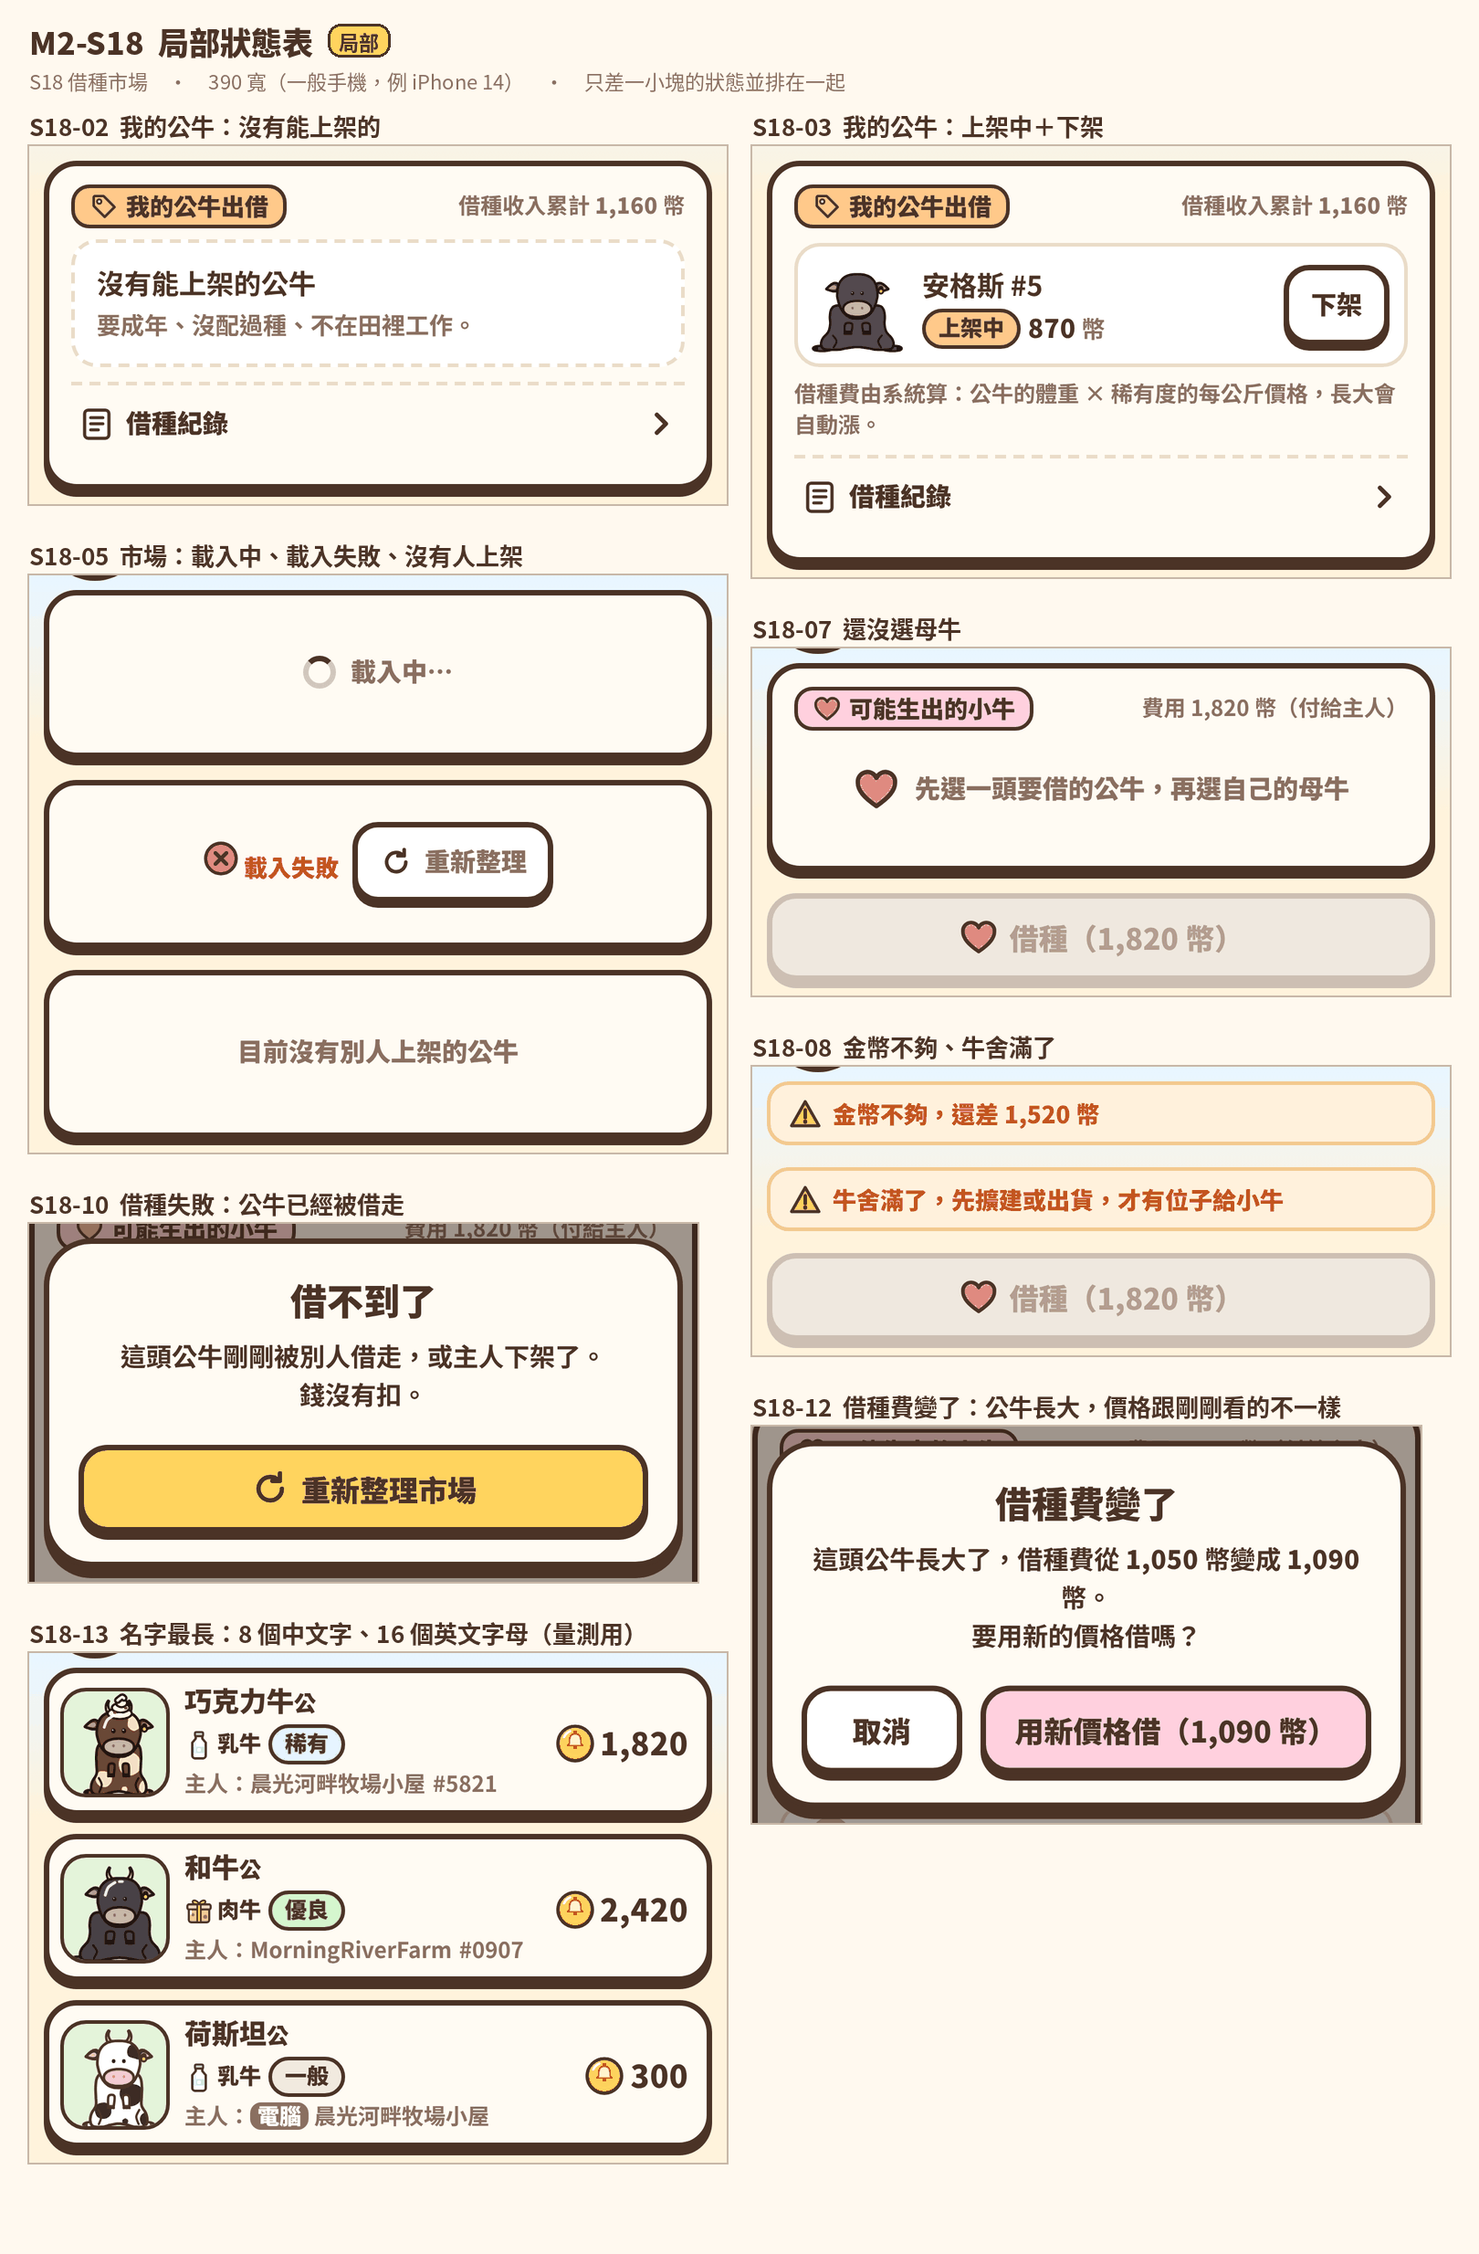
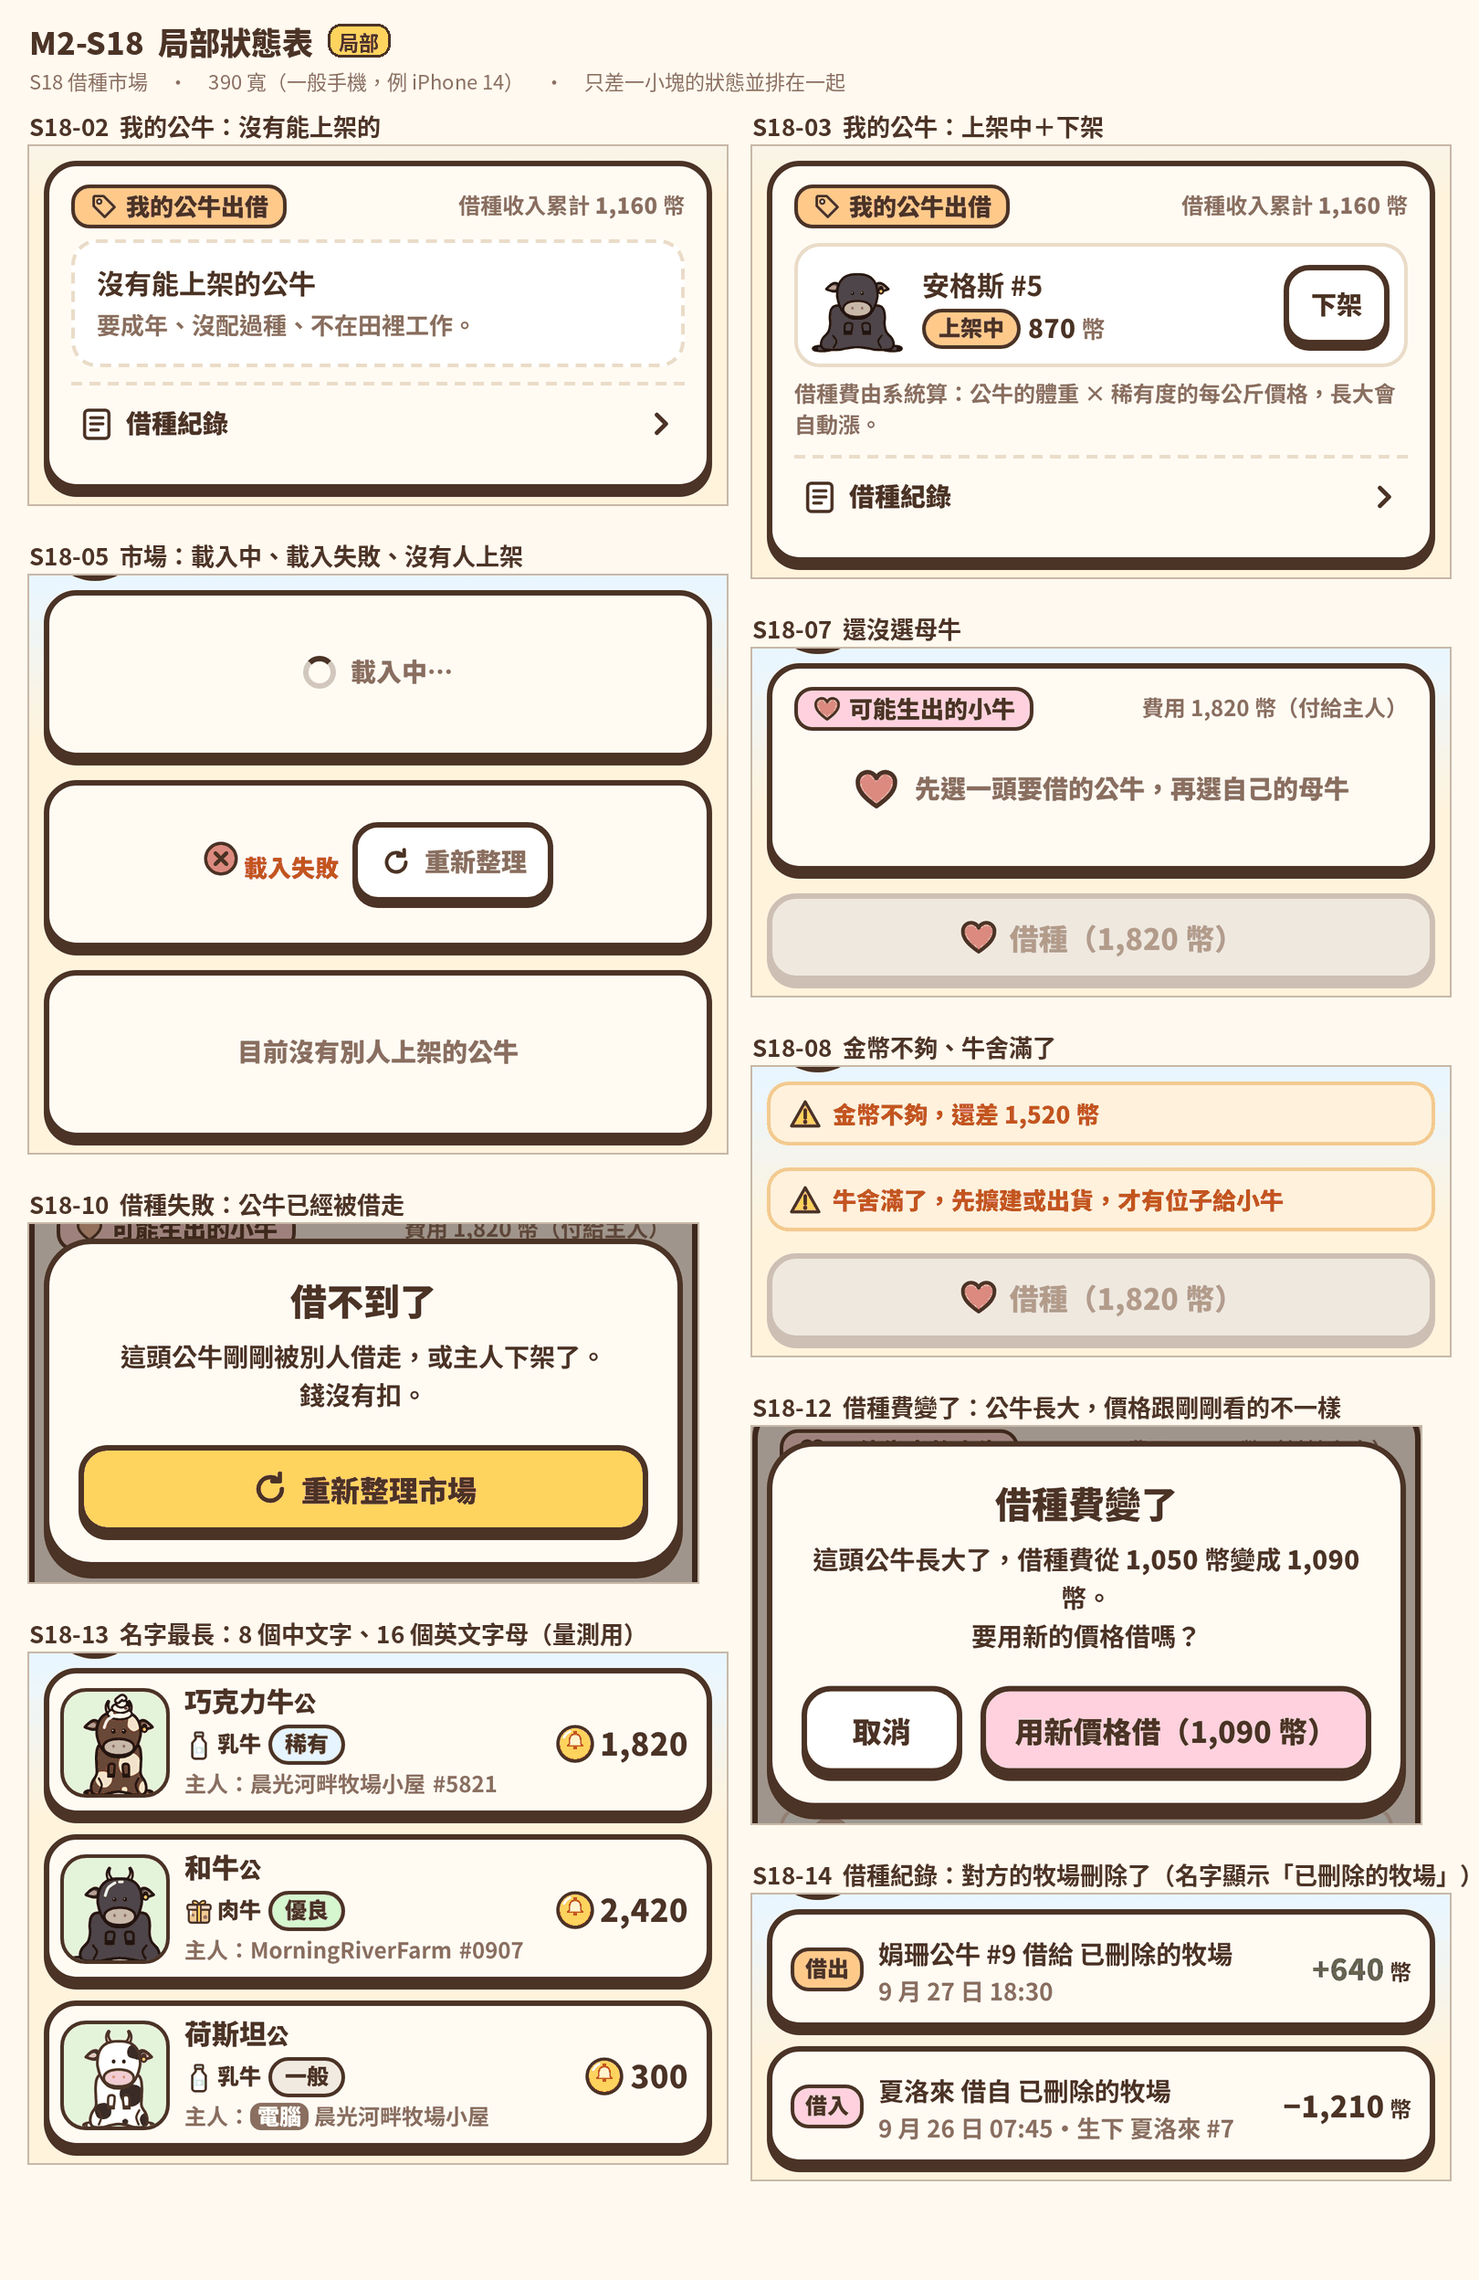
借種紀錄加「已刪除的牧場」（S18-14）；scope 改成取好名字才建立牧場（ceo 2026-10-02）
- zh-Hant.json 加 s18.deletedRanch「已刪除的牧場」（共 649 個 key）：對方的牧場刪除了，
  借種紀錄照樣保留，對方的名字顯示這個。英文、泰文 ceo 翻。
- 新增局部狀態 S18-14：借出、借入各一列（量長度用，版面不變）。借種紀錄的一列抽成 logRow()，
  S18-11 的輸出不變（HTML 把 SVG 編號正規化後比對，既有 712 個畫面都一樣）。
  重出 S18 局部狀態表（430、390）和 S18 總覽；局部狀態 78 → 79，全部 167 個狀態。
- scope.md：建立牧場的順序改成 S14-01 開新牧場 → S02 取名 → 按「就叫這個」→ S01-03 建立牧場中
  → S02-02 歡迎卡（伺服器取好名字才建立）。S01-03、S02-01、S02-02、S14-01 的觸發條件跟著改，畫面不變。
  S02 的字寬說明改成 D23 的新算法（泰文上下標記號算 0）。

Changed region(s): [[0.0, 0.0, 0.9877, 0.9672]]

diff --git a/design/m2/src/js/screens/s08.js b/design/m2/src/js/screens/s08.js
@@ -142,14 +142,24 @@ full18('S18-09', '借種成功：小牛倒數', (ctx) => studPage(ctx, { sel: 2,
 part18('S18-10', '借種失敗：公牛已經被借走', '.dialog', (ctx) => studPage(ctx, { sel: 2, dam: 0, outcome: 'ok', scrollTo: '.outcome-card', overlays: dialog({ title: t('s18.goneTitle'), body: `<p style="text-align:center">${tb('s18.goneBody')}</p>`, buttons: btn(t('s18.reloadMarket'), { kind: 'primary', ic: 'refresh' }) }) }));
 part18('S18-12', '借種費變了：公牛長大，價格跟剛剛看的不一樣', '.dialog', (ctx) => studPage(ctx, { sel: 3, dam: 0, outcome: 'ok', scrollTo: '.outcome-card', overlays: dialog({ title: t('s18.feeChangedTitle'), body: `<p style="text-align:center">${tb('s18.feeChangedBody', { old: `<b class="num">${fmt(1050)}</b>`, now: `<b class="num">${fmt(1090)}</b>` })}</p>`, buttons: `${btn(t('cancel'))}${btn(t('s18.borrowNew', { price: fmt(1090) }), { kind: 'pink' })}` }) }));
 part18('S18-13', '名字最長：8 個中文字、16 個英文字母（量測用）', '.list', (ctx) => frame(ctx.dev, { tab: 'breed', content: `<div class="list">${[{ ...STUD[2], owner: LONG_NAMES.cjk, tag: '#5821' }, { ...STUD[4], owner: LONG_NAMES.latin, tag: '#0907' }, { ...STUD[0], owner: LONG_NAMES.cjk }].map((l) => studRow(l)).join('')}</div>` }));
+// 對方的牧場刪除了：借出、借入各一列（量長度用；借種費照 D26：娟珊公牛 233 公斤 × 2.75、夏洛來 440 公斤 × 2.75）
+part18('S18-14', '借種紀錄：對方的牧場刪除了（名字顯示「已刪除的牧場」）', '.list', (ctx) => frame(ctx.dev, { tab: 'breed', content: `<div class="list">${[
+  { dir: 'out', when: { m: 9, d: 27, time: '18:30' }, gone: true, cow: { breed: 'jersey', id: 9, bull: true }, price: 640 },
+  { dir: 'in', when: { m: 9, d: 26, time: '07:45' }, gone: true, cow: { breed: 'charolais' }, price: 1210, calf: { breed: 'charolais', id: 7 } },
+].map(logRow).join('')}</div>` }));
 full18('S18-11', '借種紀錄', (ctx) => frame(ctx.dev, { tab: 'breed', content: `<div class="stack">
   <div class="page-head"><button class="icon-btn" aria-label="${t('back')}">${icon('back', 22)}</button><div class="grow"><h1>${t('s18.logTitle')}</h1><div class="sub">${t('s18.logIncome', { v: fmt(STUD_INCOME) })}</div></div></div>
   <div class="filter"><button class="on">${t('g.all')}</button><button>${t('s18.out')}</button><button>${t('s18.in')}</button></div>
-  <div class="list">${STUD_LOG.map((r) => `<article class="card log-row"><span class="log-dir ${r.dir}">${t(r.dir === 'out' ? 's18.out' : 's18.in')}</span>
-    <div class="grow"><b>${t(r.dir === 'out' ? 's18.lentTo' : 's18.borrowedFrom', { cow: logCow(r.cow), ranch: r.bot ? `${t('botPrefix')} ${r.who}` : r.who })}</b><div class="hint">${dateText(r.when)}${r.calf ? t('g.sep') + t('s18.calfBorn', { cow: logCow(r.calf) }) : ''}</div></div>
-    <span class="log-amt ${r.dir}">${t('costCoins', { v: `<b class="num">${r.dir === 'out' ? '+' : '−'}${fmt(r.price)}</b>` })}</span></article>`).join('')}</div>
+  <div class="list">${STUD_LOG.map(logRow).join('')}</div>
   <p class="hint" style="text-align:center">${t('s18.logKeep', { n: 30 })}</p></div>` }));
 
+// 借種紀錄的一列。gone：對方的牧場刪除了，紀錄照樣保留，對方的名字顯示「已刪除的牧場」（ceo 2026-10-02）
+function logRow(r) {
+  const ranch = r.gone ? t('s18.deletedRanch') : r.bot ? `${t('botPrefix')} ${r.who}` : r.who;
+  return `<article class="card log-row"><span class="log-dir ${r.dir}">${t(r.dir === 'out' ? 's18.out' : 's18.in')}</span>
+    <div class="grow"><b>${t(r.dir === 'out' ? 's18.lentTo' : 's18.borrowedFrom', { cow: logCow(r.cow), ranch })}</b><div class="hint">${dateText(r.when)}${r.calf ? t('g.sep') + t('s18.calfBorn', { cow: logCow(r.calf) }) : ''}</div></div>
+    <span class="log-amt ${r.dir}">${t('costCoins', { v: `<b class="num">${r.dir === 'out' ? '+' : '−'}${fmt(r.price)}</b>` })}</span></article>`;
+}
 // 借種紀錄裡的牛：品種（公牛加「公牛」）＋編號（借入的公牛沒有編號）
 function logCow(c) {
   const name = c.bull ? t('s18.bullName', { breed: breedName(c.breed) }) : breedName(c.breed);

diff --git a/design/m2/scope.md b/design/m2/scope.md
@@ -75,22 +75,23 @@
 |---|---|---|---|---|---|
 | S01-01 | 啟動畫面：遊戲名（暫名「牛市牧場」，做成可替換的單一文字）、牛、版本號 | 整頁 | app 打開 | 新 | 無 |
 | S01-02 | 載入中：「正在載入牧場…」 | 整頁 | `state == null`（`home_shell.dart:76-77,98`） | `S.loadingFarm`、`S.connecting` | 有（沒有截圖） |
-| S01-03 | 第一次打開：建立牧場中 → 接著進 S02 | 整頁 | 手機沒有 token → `POST /v1/session`（`game_model.dart:134-145`） | 新 | 部分 |
+| S01-03 | 建立牧場中（取好名字之後）→ 接著顯示歡迎卡（S02-02） | 整頁 | 在 S02 按「就叫這個」→ 伺服器建立牧場（ceo 2026-10-02：取好名字才建立；M1 是一打開就 `POST /v1/session`，`game_model.dart:134-145`） | 新 | 部分 |
 | S01-04 | 載入失敗＋「重試」（每 5 秒也會自動重試） | 整頁 | `_boot` 失敗（`game_model.dart:124-127`） | `S.startFailed`、`S.retry` | 有（沒有截圖） |
 
 ### S02 新手：自己取牧場名（M1 沒做；D23）
 
 | 頁面 ID | 狀態 | 類型 | 觸發條件 | 文案來源 | M1 |
 |---|---|---|---|---|---|
-| S02-01 | 還沒輸入：輸入框、字數「0 / 16」、「幫我想一個」、「就叫這個」（停用） | 整頁 | 第一次打開、按「開新牧場」之後 | 新 | 無 |
-| S02-02 | 取好名字：歡迎卡「歡迎來到 小花的快樂牧場 #1234」與開局的牛、100 幣、奶桶裡已經有 20 瓶 | 整頁 | 按「就叫這個」 | 新 | 無 |
+| S02-01 | 還沒輸入：輸入框、字數「0 / 16」、「幫我想一個」、「就叫這個」（停用） | 整頁 | 在 S14-01 按「開新牧場」之後（牧場還沒建立） | 新 | 無 |
+| S02-02 | 取好名字：歡迎卡「歡迎來到 小花的快樂牧場 #1234」與開局的牛、100 幣、奶桶裡已經有 20 瓶 | 整頁 | 按「就叫這個」→ 建立牧場中（S01-03）→ 建好之後 | 新 | 無 |
 | S02-03 | 打字中：系統鍵盤開著（畫成灰色方塊，不畫鍵盤本身）；輸入框、字數、按鈕都在鍵盤上面 | 整頁 | 點輸入框 | 新 | 無 |
 | S02-04 | 按了「幫我想一個」：從詞庫填一個（例「晨光河畔牧場」），可以再改 | 整頁 | 按「幫我想一個」 | 新 | 無 |
 | S02-05 | 名字不能用的提示：太短、太長、表情符號 | 局部 | 輸入時檢查 | 新 | 無 |
 
 - D23（使用者 2026-10-01：「s02 取名機制有問題，應該讓用戶自己取」「自己取，你不用弄過濾跟檢舉，別的app也是這樣」）：玩家自己打字取名；不做不雅字過濾、檢舉、封鎖。
-- 長度用顯示寬度算：中文字算 2，英文字母、數字、泰文字算 1，總共 2–16（最多 8 個中文字）。不收 emoji 和控制字元，前後的空白自動去掉。
-- 名字不必唯一，顯示時加「#1234」。「幫我想一個」的詞庫每種語言一份。
+- 長度用顯示寬度算（D23；算法見 `i18n/README.md`）：中文字和全形符號算 2，泰文的上下標記號算 0，其他（英文字母、數字、泰文的子音和母音）算 1，總共 2–16（最多 8 個中文字）。不收 emoji 和控制字元，前後的空白自動去掉。
+- 名字不必唯一，顯示時加「#1234」。「幫我想一個」的詞庫每種語言一份（字串表的 `namegen.*`，app 自己組）。
+- 建立牧場的順序（ceo 2026-10-02，伺服器取好名字才建立牧場）：S14-01 按「開新牧場」→ S02 取名 → 按「就叫這個」→ S01-03 建立牧場中 → S02-02 歡迎卡。畫面都不變，只有順序換了。
 
 ### S03 牧場主畫面
 
@@ -287,7 +288,7 @@
 
 | 頁面 ID | 狀態 | 類型 | 觸發條件 | 文案來源 | M1 |
 |---|---|---|---|---|---|
-| S14-01 | 第一次打開：「開新牧場」「找回我的牧場」 | 整頁 | 第一次打開（在 S01-03 之前）；開新牧場不用登入 | 新 | 無 |
+| S14-01 | 第一次打開：「開新牧場」「找回我的牧場」 | 整頁 | 第一次打開；按「開新牧場」→ 取名（S02），不用登入 | 新 | 無 |
 | S14-02 | 找回我的牧場（iPhone）：「用之前備份牧場的帳號登入」、兩顆登入按鈕 | 整頁 | 按「找回我的牧場」 | 新 | 無 |
 | S14-03 | 這個帳號沒有備份過牧場：「換一個帳號」「開新牧場」 | 局部 | 登入的帳號沒有綁牧場 | 新 | 無 |
 | S14-04 | 找回成功：「歡迎回來」；牧場已經回到這支手機，舊手機已經登出 | 整頁 | 伺服器接受 | 新 | 無 |
@@ -351,6 +352,7 @@
 | S18-11 | 借種紀錄：借出與借入的清單 | 整頁 | GDD 第 8 節（協定沒有紀錄端點） | 新 | 無 |
 | S18-12 | 借種費變了：公牛長大了，價格跟剛剛看的不一樣；「用新價格借」 | 局部 | 協定 `price_changed`（D26） | 新 | 無 |
 | S18-13 | 名字最長：8 個中文字、16 個英文字母（量測用）；名字太長只截名字，「電腦」和 #編號一定看得到 | 局部 | 量測用 | — | 無 |
+| S18-14 | 借種紀錄：對方的牧場刪除了，紀錄照樣保留，對方的名字顯示「已刪除的牧場」（量長度用） | 局部 | 對方刪除牧場（ceo 2026-10-02） | 新（`s18.deletedRanch`） | 無 |
 - D26（使用者 2026-10-01：「s04 上架借種價格我們幫用戶算好(理論上越稀有的牛就越貴，越大的也是)」，選「看體重公斤數」）：借種費＝公牛現在的體重 × 每公斤價格（一般 1.1、優良 2.75、稀有 6.6、傳說 16.5 幣），四捨五入到 10 幣；跟著公牛長大自動漲。主人只決定要不要上架，不再選價位。數字暫定，M3 重跑模擬後定案。
 
 ### S19 商店等級抽牛
@@ -449,11 +451,11 @@
 | 類型 | 狀態數 | 張數 |
 |---|---|---|
 | 整頁（430、390 各一張） | 87 | 174 |
-| 局部（併成每個畫面一張狀態表，430、390 各一張） | 78 | 36 |
+| 局部（併成每個畫面一張狀態表，430、390 各一張） | 79 | 36 |
 | 大張：24 種全圖（S09-05） | 1 | 1 |
 | 動畫（390） | 12 | GIF 12 個、分鏡 12 張、減少動態 12 張 |
 | 總覽 | 每個畫面一張＋全部畫面一張 | 22 |
-| 360、320 量測 | 全部 166 個狀態 | 只留量測結果（`design/m2/measure/summary.md`） |
+| 360、320 量測 | 全部 167 個狀態 | 只留量測結果（`design/m2/measure/summary.md`） |
 
 - 出圖一律照記憶體規則：`free -m` 可用 2 GB 以上才跑，用 `systemd-run` 限 1.5 GB，一次一個瀏覽器。
 

diff --git a/design/m2/README.md b/design/m2/README.md
@@ -23,7 +23,7 @@
 | 類型 | 數量 |
 |---|---|
 | 整頁狀態 | 87 個（430、390 各一張，共 174 張） |
-| 局部狀態 | 78 個（併成 36 張狀態表） |
+| 局部狀態 | 79 個（併成 36 張狀態表） |
 | 24 種全圖 | 1 張 |
 | 動畫 | 12 個（GIF、分鏡、減少動態各 12） |
 | 總覽 | 22 張 |
@@ -74,7 +74,7 @@
 ## 量測
 
 - 每個狀態在 430、390、360、320 四種寬度量過：最小字級、文字被切掉或超出框、不該換行、重疊、按鈕小於 44×44、擋到狀態列或 Home 指示條、橫向捲動。
-- 結果（166 個狀態）：430、390、360 全部沒有問題，最小字級 12 px；320 剩 1 個狀態有小問題（S03-08，寫在 `measure/summary.md`，實作時處理）。
+- 結果（167 個狀態）：430、390、360 全部沒有問題，最小字級 12 px；320 剩 1 個狀態有小問題（S03-08，寫在 `measure/summary.md`，實作時處理）。
 - 名字最長（8 個中文字、16 個英文字母）在頂列、排行榜、借種市場都量過：頂列長名字字縮小，再放不下用「…」截短；排行榜、借種市場只截名字，「電腦」標記和 #編號一定看得到。
 - 320 寬的手機（例如第一代 iPhone SE）很少見；這些只量測，不送核准。
 

diff --git a/design/m2/measure/summary.md b/design/m2/measure/summary.md
@@ -9,10 +9,10 @@
 
 | 寬度 | 狀態數 | 最小字級 | 有問題的狀態 | 橫向捲動 | 刻意截成「…」 | 要往下捲的狀態 |
 |---|---|---|---|---|---|---|
-| 430×932 | 165 | 12 px | 0 | 0 | 0 | 36 |
-| 390×844 | 165 | 12 px | 0 | 0 | 1 | 46 |
-| 360×800 | 165 | 12 px | 0 | 0 | 3 | 51 |
-| 320×568 | 165 | 12 px | 1 | 0 | 110 | 71 |
+| 430×932 | 166 | 12 px | 0 | 0 | 0 | 36 |
+| 390×844 | 166 | 12 px | 0 | 0 | 1 | 46 |
+| 360×800 | 166 | 12 px | 0 | 0 | 3 | 51 |
+| 320×568 | 166 | 12 px | 1 | 0 | 111 | 71 |
 
 ## 430×932
 
